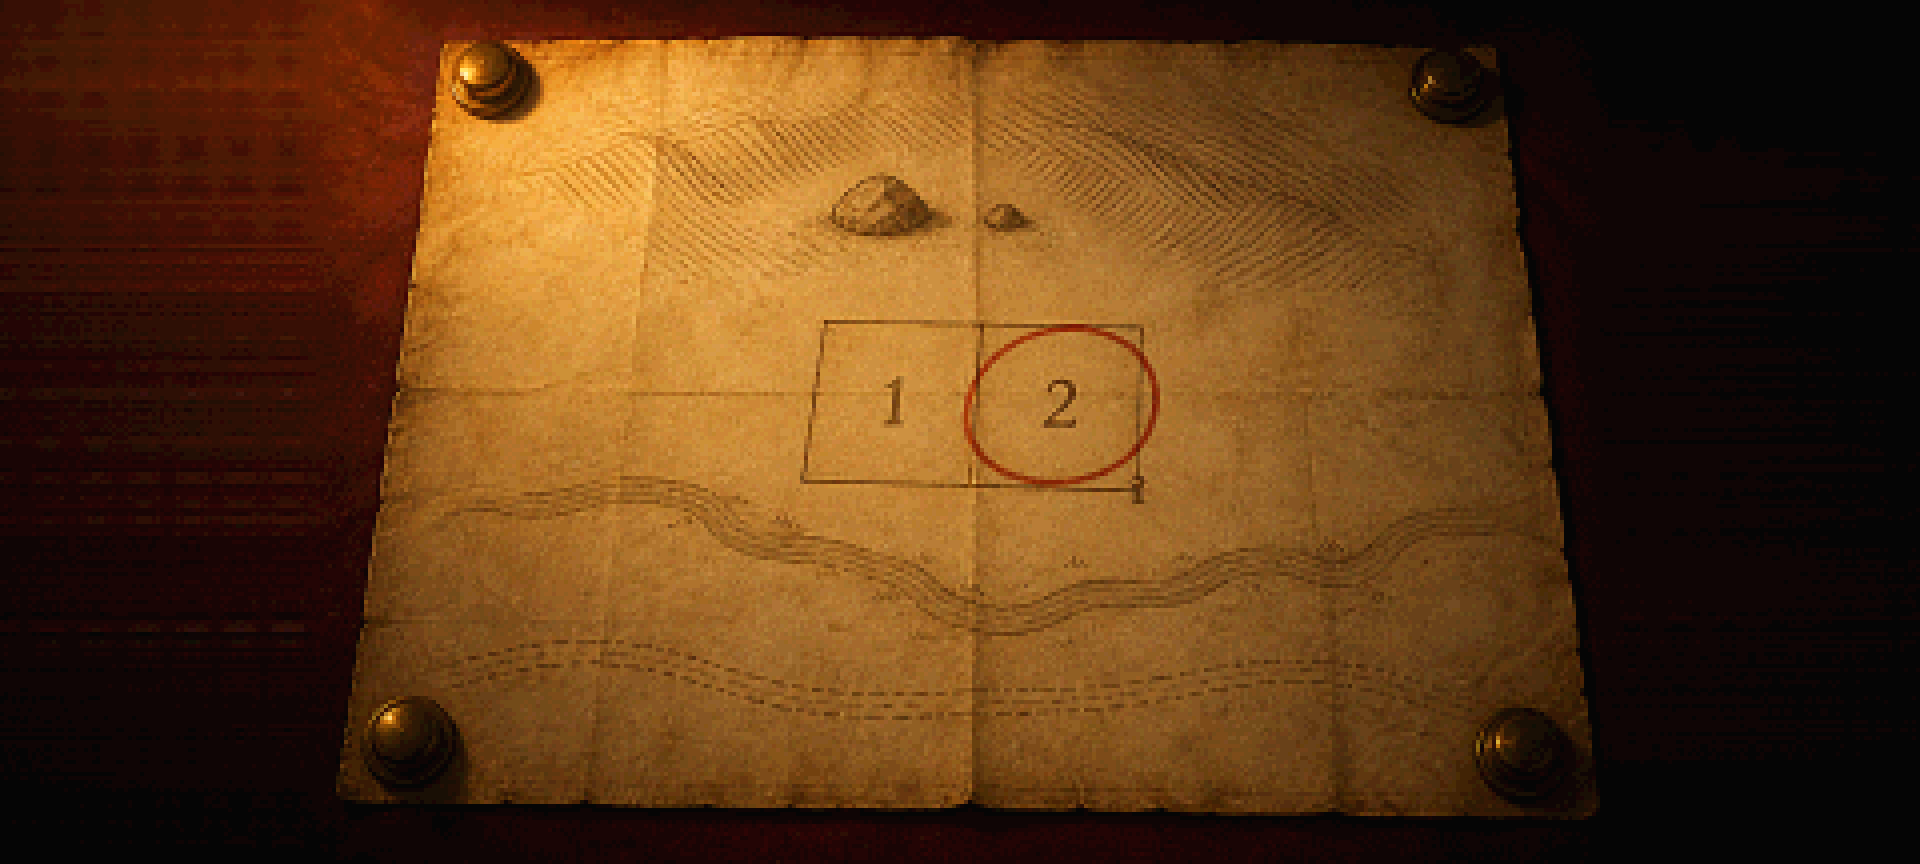
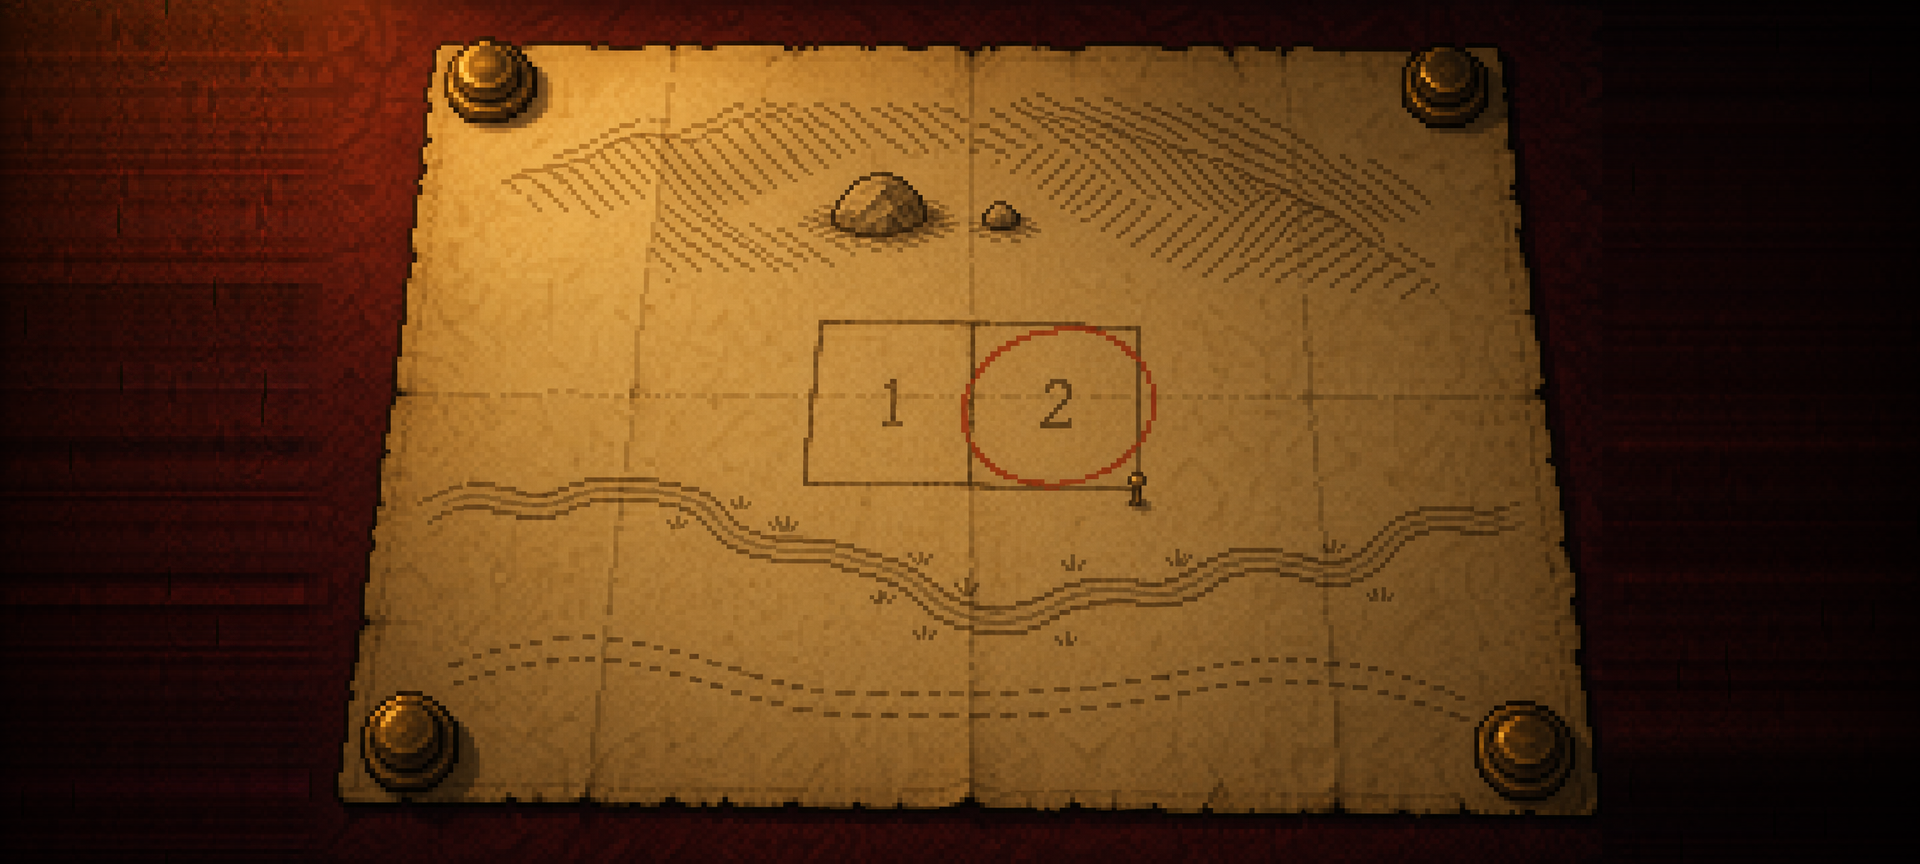
The Company's map, redrawn in the plates' pixel style (act1-dinner operation 4)
Tyler, 2026-11-10, on the handback's note that the map read softer and more painted than
the tent: "You can do another redraw on the map if you still need it." act1-dinner is
raised 3 -> 4 and operation 4 is spent.

art/backgrounds/room-16-company-map.png is now pixel art in the tent plate's grain, its
layout kept: the red circle is within 4 px of where it was, and
tools/art/act1-company-map-large.py asserts it stays within 12, because the I-3 wiring
(errata 251, on notdone) points hotspots and survey lines at this picture. Each hotspot
is shown still on its feature in renders/room-16-company-map-with-the-survey-hotspots.png.
The cloth carried out at the sides no longer stripes. Handback updated.

Lesson: none -- a redraw Tyler chose; the layout check it needs is in the tool.

Claude-Session: https://claude.ai/code/session_01FXbCupzwLJAEr7fqqWYP8A

diff --git a/tools/art/act1-company-map-large.py b/tools/art/act1-company-map-large.py
@@ -1,28 +1,49 @@
 """The Company's map, large, for I-3 (reference/act1-dinner/brief.md section 2; doc 120 I-3). No image operation here.
 
-act1-dinner operation 2 drew the map unrolled on Madame Ozymandia's table at 1536x1024, smooth. This makes it the
-game's 1920x864 background:
+act1-dinner operation 2 drew the map unrolled on Madame Ozymandia's table at 1536x1024, smooth and painted. Operation
+4 (Tyler, 2026-11-10: "You can do another redraw on the map") redrew it as pixel art in the tent plate's style, its
+layout kept so the I-3 wiring's hotspots and survey lines still land (checked by FEATURES below). This makes operation
+4 the game's 1920x864 background:
 
   - the whole sheet is kept, so the two rocks at the top and the road at the bottom both stay ~150 px or more inside
     the frame (the brief: "Nothing important within 150 px of the frame's edge"): scaled to 864 tall;
   - the table cloth is carried out to 1920 at each side, mirrored from the operation's own cloth at that edge;
-  - drawn to the game's grain: 4 px per art pixel (480x216), the ink lines lifted, box-reduced, posterised so
-    the washes step as the plates' do, then nearest-neighbour up.
+  - no further pixelation: operation 4 is drawn in the plates' grain, and is scaled as the plates are.
 
 Writes art/backgrounds/room-16-company-map.png and renders/room-16-company-map-beside-the-tent.png.
 """
 import os
 
 import numpy as np
-from PIL import Image, ImageFilter
+from PIL import Image
+from scipy import ndimage as ndi
 
 ROOT = os.path.dirname(os.path.dirname(os.path.dirname(os.path.abspath(__file__))))
-SRC = os.path.join(ROOT, 'art/staging/act1-dinner/op-2/sheet.png')
+SRC = os.path.join(ROOT, 'art/staging/act1-dinner/op-4/sheet.png')
 OUT = os.path.join(ROOT, 'art/backgrounds/room-16-company-map.png')
 SHOW = os.path.join(ROOT, 'renders/room-16-company-map-beside-the-tent.png')
-W, H, GRAIN = 1920, 864, 4
-STEP = 10   # the posterise: washes step as the plates' do
+W, H = 1920, 864
 EDGE = 28   # source columns of cloth at the left, outside the paper and its weights, top to bottom
+
+
+# Where the I-3 wiring (errata 251) points, in the background's pixels, as operation 2's map put them: the red
+# circle's box, and two hotspots. The redraw must keep each within TOL px.
+FEATURES = {'red circle': (962, 325, 1160, 487)}
+TOL = 12
+
+
+def check_features(img):
+    a = np.asarray(img).astype(int)
+    red = (a[..., 0] - a[..., 1] > 60) & (a[..., 0] > 110) & (a[..., 2] < 110)
+    sub = red[150:750, 600:1400]
+    lab, n = ndi.label(ndi.binary_closing(sub, iterations=3))
+    big = 1 + int(np.argmax(ndi.sum(np.ones_like(lab), lab, range(1, n + 1))))   # the circle: the one large red shape
+    ys, xs = np.nonzero(lab == big)
+    got = (xs.min() + 600, ys.min() + 150, xs.max() + 600, ys.max() + 150)
+    want = FEATURES['red circle']
+    off = max(abs(g - w) for g, w in zip(got, want))
+    print('red circle', got, 'was', want, 'off by', off)
+    assert off <= TOL, f'the redraw moved the red circle {off} px: the wiring\'s hotspots would miss'
 
 
 def main():
@@ -36,11 +57,22 @@ def main():
     left = body[:, :edge]
     right = left[:, ::-1]
 
+    rng = np.random.default_rng(16)
+
     def cloth(strip, n, flip):
+        # Tiles of the operation's own cloth, alternately mirrored, each rolled down by its own amount so the damask's
+        # rows do not line up into stripes across the side.
         reps = []
         k = 0
         while sum(r.shape[1] for r in reps) < n:
-            reps.append(strip[:, ::-1] if (k % 2 == 0) == flip else strip)
+            tile = strip[:, ::-1] if (k % 2 == 0) == flip else strip
+            if k:
+                # roll the damask, not the lamp: each row keeps its own light, only the pattern moves
+                light = tile.astype(float).mean(1, keepdims=True)
+                tex = tile / np.maximum(light, 1)
+                rolled = np.roll(tex, int(rng.integers(0, H)), axis=0) * light
+                tile = np.clip(rolled, 0, 255).astype(np.uint8)
+            reps.append(tile)
             k += 1
         return np.concatenate(reps, 1)[:, :n]
 
@@ -56,16 +88,11 @@ def main():
     # The cloth beyond the operation's own edge falls off into the tent's dark, as the lamp is at the upper left.
     x = np.arange(W)
     fall = np.ones(W)
-    fall[:pad] = 0.55 + 0.45 * (x[:pad] / pad)
-    fall[pad + body.shape[1]:] = 0.55 + 0.45 * ((W - 1 - x[pad + body.shape[1]:]) / (W - pad - body.shape[1]))
+    fall[:pad] = 0.3 + 0.7 * (x[:pad] / pad) ** 0.7
+    fall[pad + body.shape[1]:] = 0.3 + 0.7 * ((W - 1 - x[pad + body.shape[1]:]) / (W - pad - body.shape[1])) ** 0.7
     full *= fall[None, :, None]
-    img = Image.fromarray(np.clip(full, 0, 255).astype(np.uint8))
-    img = img.filter(ImageFilter.UnsharpMask(radius=3, percent=80, threshold=2))
-    small = img.resize((W // GRAIN, H // GRAIN), Image.BOX)
-    a = np.asarray(small).astype(int)
-    a = (a // STEP) * STEP + STEP // 2
-    small = Image.fromarray(np.clip(a, 0, 255).astype(np.uint8))
-    out = small.resize((W, H), Image.NEAREST)
+    out = Image.fromarray(np.clip(full, 0, 255).astype(np.uint8))
+    check_features(out)
     out.save(OUT)
     tent = Image.open(os.path.join(ROOT, 'art/backgrounds/room-16-tent.png')).convert('RGB')
     show = Image.new('RGB', (W, H * 2 + 16), (0, 0, 0))

diff --git a/reference/act1-dinner/handback.md b/reference/act1-dinner/handback.md
@@ -62,3 +62,23 @@ stake and the rocks.
    from the stake can reach them, and it can, across open paper.
 4. **The stake is small** (about 4 x 22 px): a post with a dot, as the brief asked. If the rod's line should start from
    something easier to see, the wiring can draw a marker there; that is the engine's, not the art's.
+
+## Later: the map redrawn in the plates' style (operation 4)
+
+Tyler, 2026-11-10, on decision 1 above: "You can do another redraw on the map if you still need it." `act1-dinner` is
+raised 3 -> 4 in `art/staging/caps.json`, and **operation 4 is spent** (ledger: act1-dinner attempt 4, derived from
+attempt 2). It was given operation 2's map as the layout to keep, and the tent plate (whole, and a 2x crop for its
+pixels) as the style.
+
+- `art/backgrounds/room-16-company-map.png` is now **pixel art in the tent plate's grain**: square pixels, stepped
+  shades, dark pixel outlines on the weights and the paper's edge, one- and two-pixel ink lines. Nothing on it changed
+  but the drawing: the same claims, "1" and "2", red circle, stake, two rocks, hill strokes, creek and road, the same
+  lamp from the upper left. `tools/art/act1-company-map-large.py` builds it from operation 4 with no further
+  pixelation (operation 2's coarsening and posterising are gone), and the cloth carried out at the sides is now rolled
+  tile by tile and falls off into the tent's dark, so it no longer stripes.
+- **The layout held.** The red circle measures 960-1156, 326-490 (operation 2's: 962-1160, 325-487), and the tool
+  now asserts it stays within 12 px, because the I-3 wiring (errata 251, on the branch `notdone`) points at this
+  picture: its hotspots for the stake, both rocks, both claims and the creek, drawn on the new map in
+  `renders/room-16-company-map-with-the-survey-hotspots.png`, each still on its feature. Its survey-line overlays
+  (`tools/art/survey-line.py`) are drawn to the same places.
+- Beside the tent: `renders/room-16-company-map-beside-the-tent.png`.
